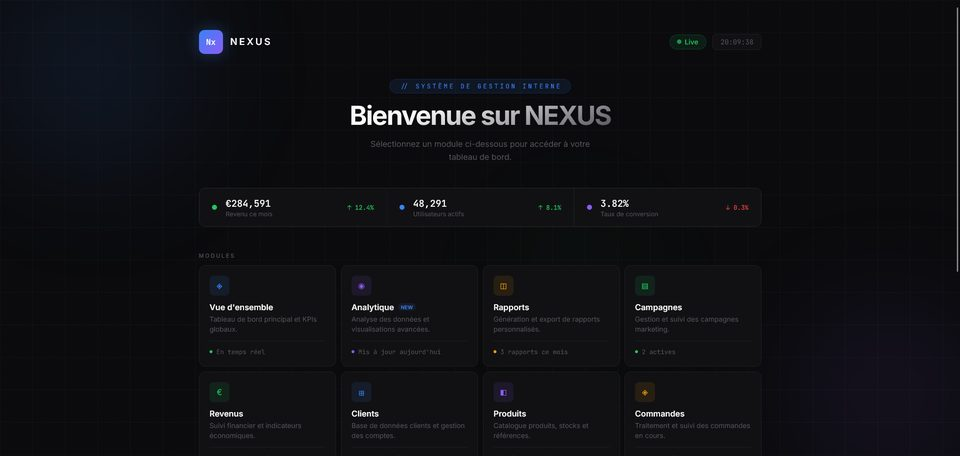
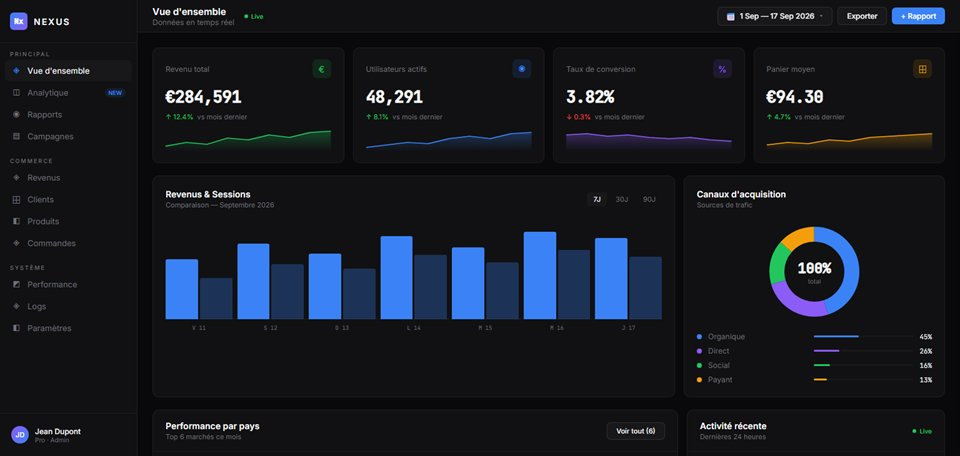
Image de partage : capture de la page Vue d'ensemble

diff --git a/Produits/index.html b/Produits/index.html
@@ -18,7 +18,7 @@
   <meta property="og:image" content="https://nexus-sigma-pearl.vercel.app/og-image.jpg">
   <meta property="og:image:width" content="960">
   <meta property="og:image:height" content="456">
-  <meta property="og:image:alt" content="Aperçu de l'accueil du tableau de bord NEXUS">
+  <meta property="og:image:alt" content="Aperçu de la page Vue d'ensemble du tableau de bord NEXUS">
   <meta name="twitter:card" content="summary_large_image">
   <link href="https://fonts.googleapis.com/css2?family=JetBrains+Mono:wght@300;400;500&family=Inter:wght@300;400;500;600&display=swap" rel="stylesheet">
   <link rel="stylesheet" href="style.css">

diff --git a/index.html b/index.html
@@ -18,7 +18,7 @@
   <meta property="og:image" content="https://nexus-sigma-pearl.vercel.app/og-image.jpg">
   <meta property="og:image:width" content="960">
   <meta property="og:image:height" content="456">
-  <meta property="og:image:alt" content="Aperçu de l'accueil du tableau de bord NEXUS">
+  <meta property="og:image:alt" content="Aperçu de la page Vue d'ensemble du tableau de bord NEXUS">
   <meta name="twitter:card" content="summary_large_image">
   <link href="https://fonts.googleapis.com/css2?family=JetBrains+Mono:wght@300;400;500&family=Inter:wght@300;400;500;600;700&display=swap" rel="stylesheet">
   <style>

diff --git a/Analytique/index.html b/Analytique/index.html
@@ -18,7 +18,7 @@
   <meta property="og:image" content="https://nexus-sigma-pearl.vercel.app/og-image.jpg">
   <meta property="og:image:width" content="960">
   <meta property="og:image:height" content="456">
-  <meta property="og:image:alt" content="Aperçu de l'accueil du tableau de bord NEXUS">
+  <meta property="og:image:alt" content="Aperçu de la page Vue d'ensemble du tableau de bord NEXUS">
   <meta name="twitter:card" content="summary_large_image">
 
   <link

diff --git a/Campagnes/index.html b/Campagnes/index.html
@@ -18,7 +18,7 @@
   <meta property="og:image" content="https://nexus-sigma-pearl.vercel.app/og-image.jpg">
   <meta property="og:image:width" content="960">
   <meta property="og:image:height" content="456">
-  <meta property="og:image:alt" content="Aperçu de l'accueil du tableau de bord NEXUS">
+  <meta property="og:image:alt" content="Aperçu de la page Vue d'ensemble du tableau de bord NEXUS">
   <meta name="twitter:card" content="summary_large_image">
 
   <link

diff --git a/Clients/index.html b/Clients/index.html
@@ -18,7 +18,7 @@
   <meta property="og:image" content="https://nexus-sigma-pearl.vercel.app/og-image.jpg">
   <meta property="og:image:width" content="960">
   <meta property="og:image:height" content="456">
-  <meta property="og:image:alt" content="Aperçu de l'accueil du tableau de bord NEXUS">
+  <meta property="og:image:alt" content="Aperçu de la page Vue d'ensemble du tableau de bord NEXUS">
   <meta name="twitter:card" content="summary_large_image">
 
   <link

diff --git a/Commandes/index.html b/Commandes/index.html
@@ -18,7 +18,7 @@
   <meta property="og:image" content="https://nexus-sigma-pearl.vercel.app/og-image.jpg">
   <meta property="og:image:width" content="960">
   <meta property="og:image:height" content="456">
-  <meta property="og:image:alt" content="Aperçu de l'accueil du tableau de bord NEXUS">
+  <meta property="og:image:alt" content="Aperçu de la page Vue d'ensemble du tableau de bord NEXUS">
   <meta name="twitter:card" content="summary_large_image">
 
   <link

diff --git a/Logs/index.html b/Logs/index.html
@@ -18,7 +18,7 @@
   <meta property="og:image" content="https://nexus-sigma-pearl.vercel.app/og-image.jpg">
   <meta property="og:image:width" content="960">
   <meta property="og:image:height" content="456">
-  <meta property="og:image:alt" content="Aperçu de l'accueil du tableau de bord NEXUS">
+  <meta property="og:image:alt" content="Aperçu de la page Vue d'ensemble du tableau de bord NEXUS">
   <meta name="twitter:card" content="summary_large_image">
 
   <link

diff --git a/Paramètres/index.html b/Paramètres/index.html
@@ -18,7 +18,7 @@
   <meta property="og:image" content="https://nexus-sigma-pearl.vercel.app/og-image.jpg">
   <meta property="og:image:width" content="960">
   <meta property="og:image:height" content="456">
-  <meta property="og:image:alt" content="Aperçu de l'accueil du tableau de bord NEXUS">
+  <meta property="og:image:alt" content="Aperçu de la page Vue d'ensemble du tableau de bord NEXUS">
   <meta name="twitter:card" content="summary_large_image">
 
   <link

diff --git a/Performance/index.html b/Performance/index.html
@@ -18,7 +18,7 @@
   <meta property="og:image" content="https://nexus-sigma-pearl.vercel.app/og-image.jpg">
   <meta property="og:image:width" content="960">
   <meta property="og:image:height" content="456">
-  <meta property="og:image:alt" content="Aperçu de l'accueil du tableau de bord NEXUS">
+  <meta property="og:image:alt" content="Aperçu de la page Vue d'ensemble du tableau de bord NEXUS">
   <meta name="twitter:card" content="summary_large_image">
 
   <link

diff --git a/Rapports/index.html b/Rapports/index.html
@@ -18,7 +18,7 @@
   <meta property="og:image" content="https://nexus-sigma-pearl.vercel.app/og-image.jpg">
   <meta property="og:image:width" content="960">
   <meta property="og:image:height" content="456">
-  <meta property="og:image:alt" content="Aperçu de l'accueil du tableau de bord NEXUS">
+  <meta property="og:image:alt" content="Aperçu de la page Vue d'ensemble du tableau de bord NEXUS">
   <meta name="twitter:card" content="summary_large_image">
 
   <link

diff --git a/Revenus/index.html b/Revenus/index.html
@@ -18,7 +18,7 @@
   <meta property="og:image" content="https://nexus-sigma-pearl.vercel.app/og-image.jpg">
   <meta property="og:image:width" content="960">
   <meta property="og:image:height" content="456">
-  <meta property="og:image:alt" content="Aperçu de l'accueil du tableau de bord NEXUS">
+  <meta property="og:image:alt" content="Aperçu de la page Vue d'ensemble du tableau de bord NEXUS">
   <meta name="twitter:card" content="summary_large_image">
 
   <link

diff --git a/Vue d'ensemble/index.html b/Vue d'ensemble/index.html
@@ -18,7 +18,7 @@
   <meta property="og:image" content="https://nexus-sigma-pearl.vercel.app/og-image.jpg">
   <meta property="og:image:width" content="960">
   <meta property="og:image:height" content="456">
-  <meta property="og:image:alt" content="Aperçu de l'accueil du tableau de bord NEXUS">
+  <meta property="og:image:alt" content="Aperçu de la page Vue d'ensemble du tableau de bord NEXUS">
   <meta name="twitter:card" content="summary_large_image">
 
   <link
